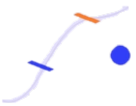
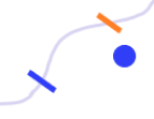
square three done

Changed region(s): [[0.0, 0.2264, 0.5588, 0.9906], [0.5294, 0.0, 1.0, 0.283], [0.7059, 0.3679, 0.9706, 0.6226]]

diff --git a/css/base/layout.css b/css/base/layout.css
@@ -169,7 +169,7 @@ footer > .container > .box:nth-child(1)::before {
         position: absolute;
         content: url(./../../img/dotted-line.png);
         right: 0px;
-        bottom: 20px;
+        bottom: 24px;
         }
 
 footer > .container > .box:nth-child(2) {
@@ -196,11 +196,26 @@ footer > .container > .box:nth-child(2)::before {
 footer > .container > .box:nth-child(3) {
     background-color: #e4dffc;
     color: #313ef7;
+    position: relative;
 }
 
+footer > .container > .box:nth-child(3)::before {
+    position: absolute;
+    content: url(./../../img/square-three.png);
+    top: 0px;
+    left: 0px;
+    }
+
+    footer > .container > .box:nth-child(3)::after {
+        position: absolute;
+        content: url(./../../img/dotted-line.png);
+        right: 0px;
+        bottom: 24px;
+        }
 
 footer > .container > .box:nth-child(4) {
     background-color: #196e86;
     border-top-right-radius: 20px;
     border-bottom-right-radius: 20px;
 }
+
